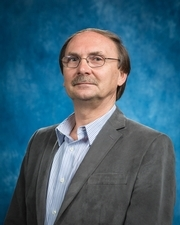
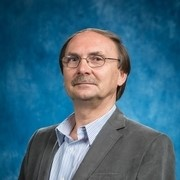
People update 3

diff --git a/_people/people-1.md b/_people/people-1.md
@@ -2,7 +2,7 @@
 title: "Dr. Sergey Drakunov"
 collection: people
 category: faculty
-excerpt: "Professor, Physical Sciences Department<br/><img src='/images/drakunov_headshot.jpg'>"
+excerpt: "Professor, Physical Sciences Department<br/><img src='/images/drakunov_headshot.jpg' border: 2px solid #ccc; border-radius: 8px; width: 150px;'>"
 ---
 
 Serving as the leader of our lab, Dr. Drakunov is an expert in control theory and its applications, engineering physics, and applied mathematics.
